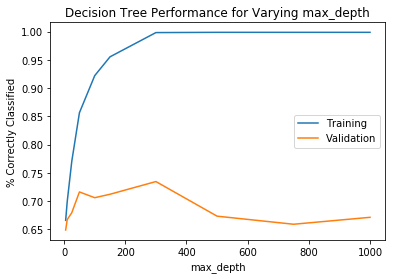
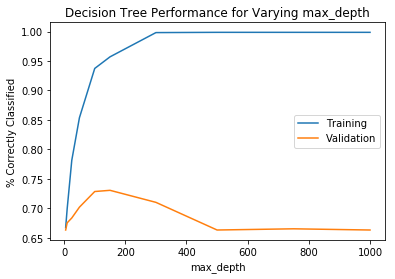
7a

diff --git a/fake.tex b/fake.tex
@@ -371,9 +371,13 @@ After stopwords were removed, the list for large values of $\theta$ shared 'trum
 
 
 \textit{c)} \\\\\\\\\\\\\\\\\\\\\\\\\\\\\\!!!!!!!!!!!!!!!!!!!!!!!!!!!!!!!!!!!!!!!!!!!!!!!!!!!!!!!!!!!!!!!!!!!\\\\\\\\\\\\\\For this project, the magnitude of all weights for the final logistic regression classifier were less than 1. This means that \\\\\\\\\\\\\\\\\\\\\\\\\\\\\\\
-\textbf{Part 7)}
-\textit{a)} A decision tree was built using DecisionTreeClassifier which is included in sklearn. The trees were trained using the same inputs as those for part 4, although the bias was removed. Two parameters were tuned for these trees, specifically the $max\_depth$ and the $max\_features$ parameters, the latter of which was used with percentage values. These parameters were tuned by iterating over 10 possible values for each of them, taking on values of \{5,10,25,50,100,150,300,500,750,1000\} and \{0.1,0.2,0.3,0.4,0.5,0.6,0.7,0.8,0.9,1.0\} respectively. The optimal parameters were $(max\_depth,max\_features)=(500,0.1)$ for the training set and $(max\_depth,max\_features)=(300,0.6)$ for the validation set.\\
+\textbf{Part 7)}\\
+\textit{a)} A decision tree was built using DecisionTreeClassifier which is included in sklearn. The trees were trained using the same inputs as those for part 4, although the bias was removed. Two parameters were tuned for these trees, specifically the $max\_depth$ and the $max\_features$ parameters, the latter of which was used with percentage values. These parameters were tuned by iterating over 10 possible values for each of them, taking on values of \{5,10,25,50,100,150,300,500,750,1000\} and \{0.1,0.2,0.3,0.4,0.5,0.6,0.7,0.8,0.9,1.0\} respectively. The optimal parameters were $(max\_depth,max\_features)=(500,0.1)$ for the training set and $(max\_depth,max\_features)=(150,0.6)$ for the validation set. For the forthcoming parts, the optimal validation set parameters are used.\\
 
-To show the relationship between $(max\_depth$ and the performance, the value of $max\_features$ was held constant; this constant was chosen to be the optimal one for the validation set ( $max\_features=0.6$) since this set is by definition to be used for tuning.
+To show the relationship between $max\_depth$ and the performance, the value of $max\_features$ was held constant; this constant was chosen to be the optimal one for the validation set ($max\_features=0.6$).\\\\
+\begin{center}
+\includegraphics[width=13cm, height=8cm]{latex_images/part7_max_depths_const_numfeat.png} 
+\captionof{figure}{Percent Classification for varying max\_depth sizes for max\_features=0.6}
+\end{center}
 %----------------------------------------------------------------------------------------
 \end{document}

diff --git a/part7.py b/part7.py
@@ -149,6 +149,12 @@ if __name__ == "__main__":
     plt.title('Decision Tree Performance for Varying max_depth')
     plt.legend()
     
+    #note: optimization seems to vary from run to run
+    depth=150 
+    feat=0.6 
+    
+    #---------------------part 7 b)---------------------------------------
+    
     '''
     import graphviz
     val_prediction=clf.predict(x_val)
